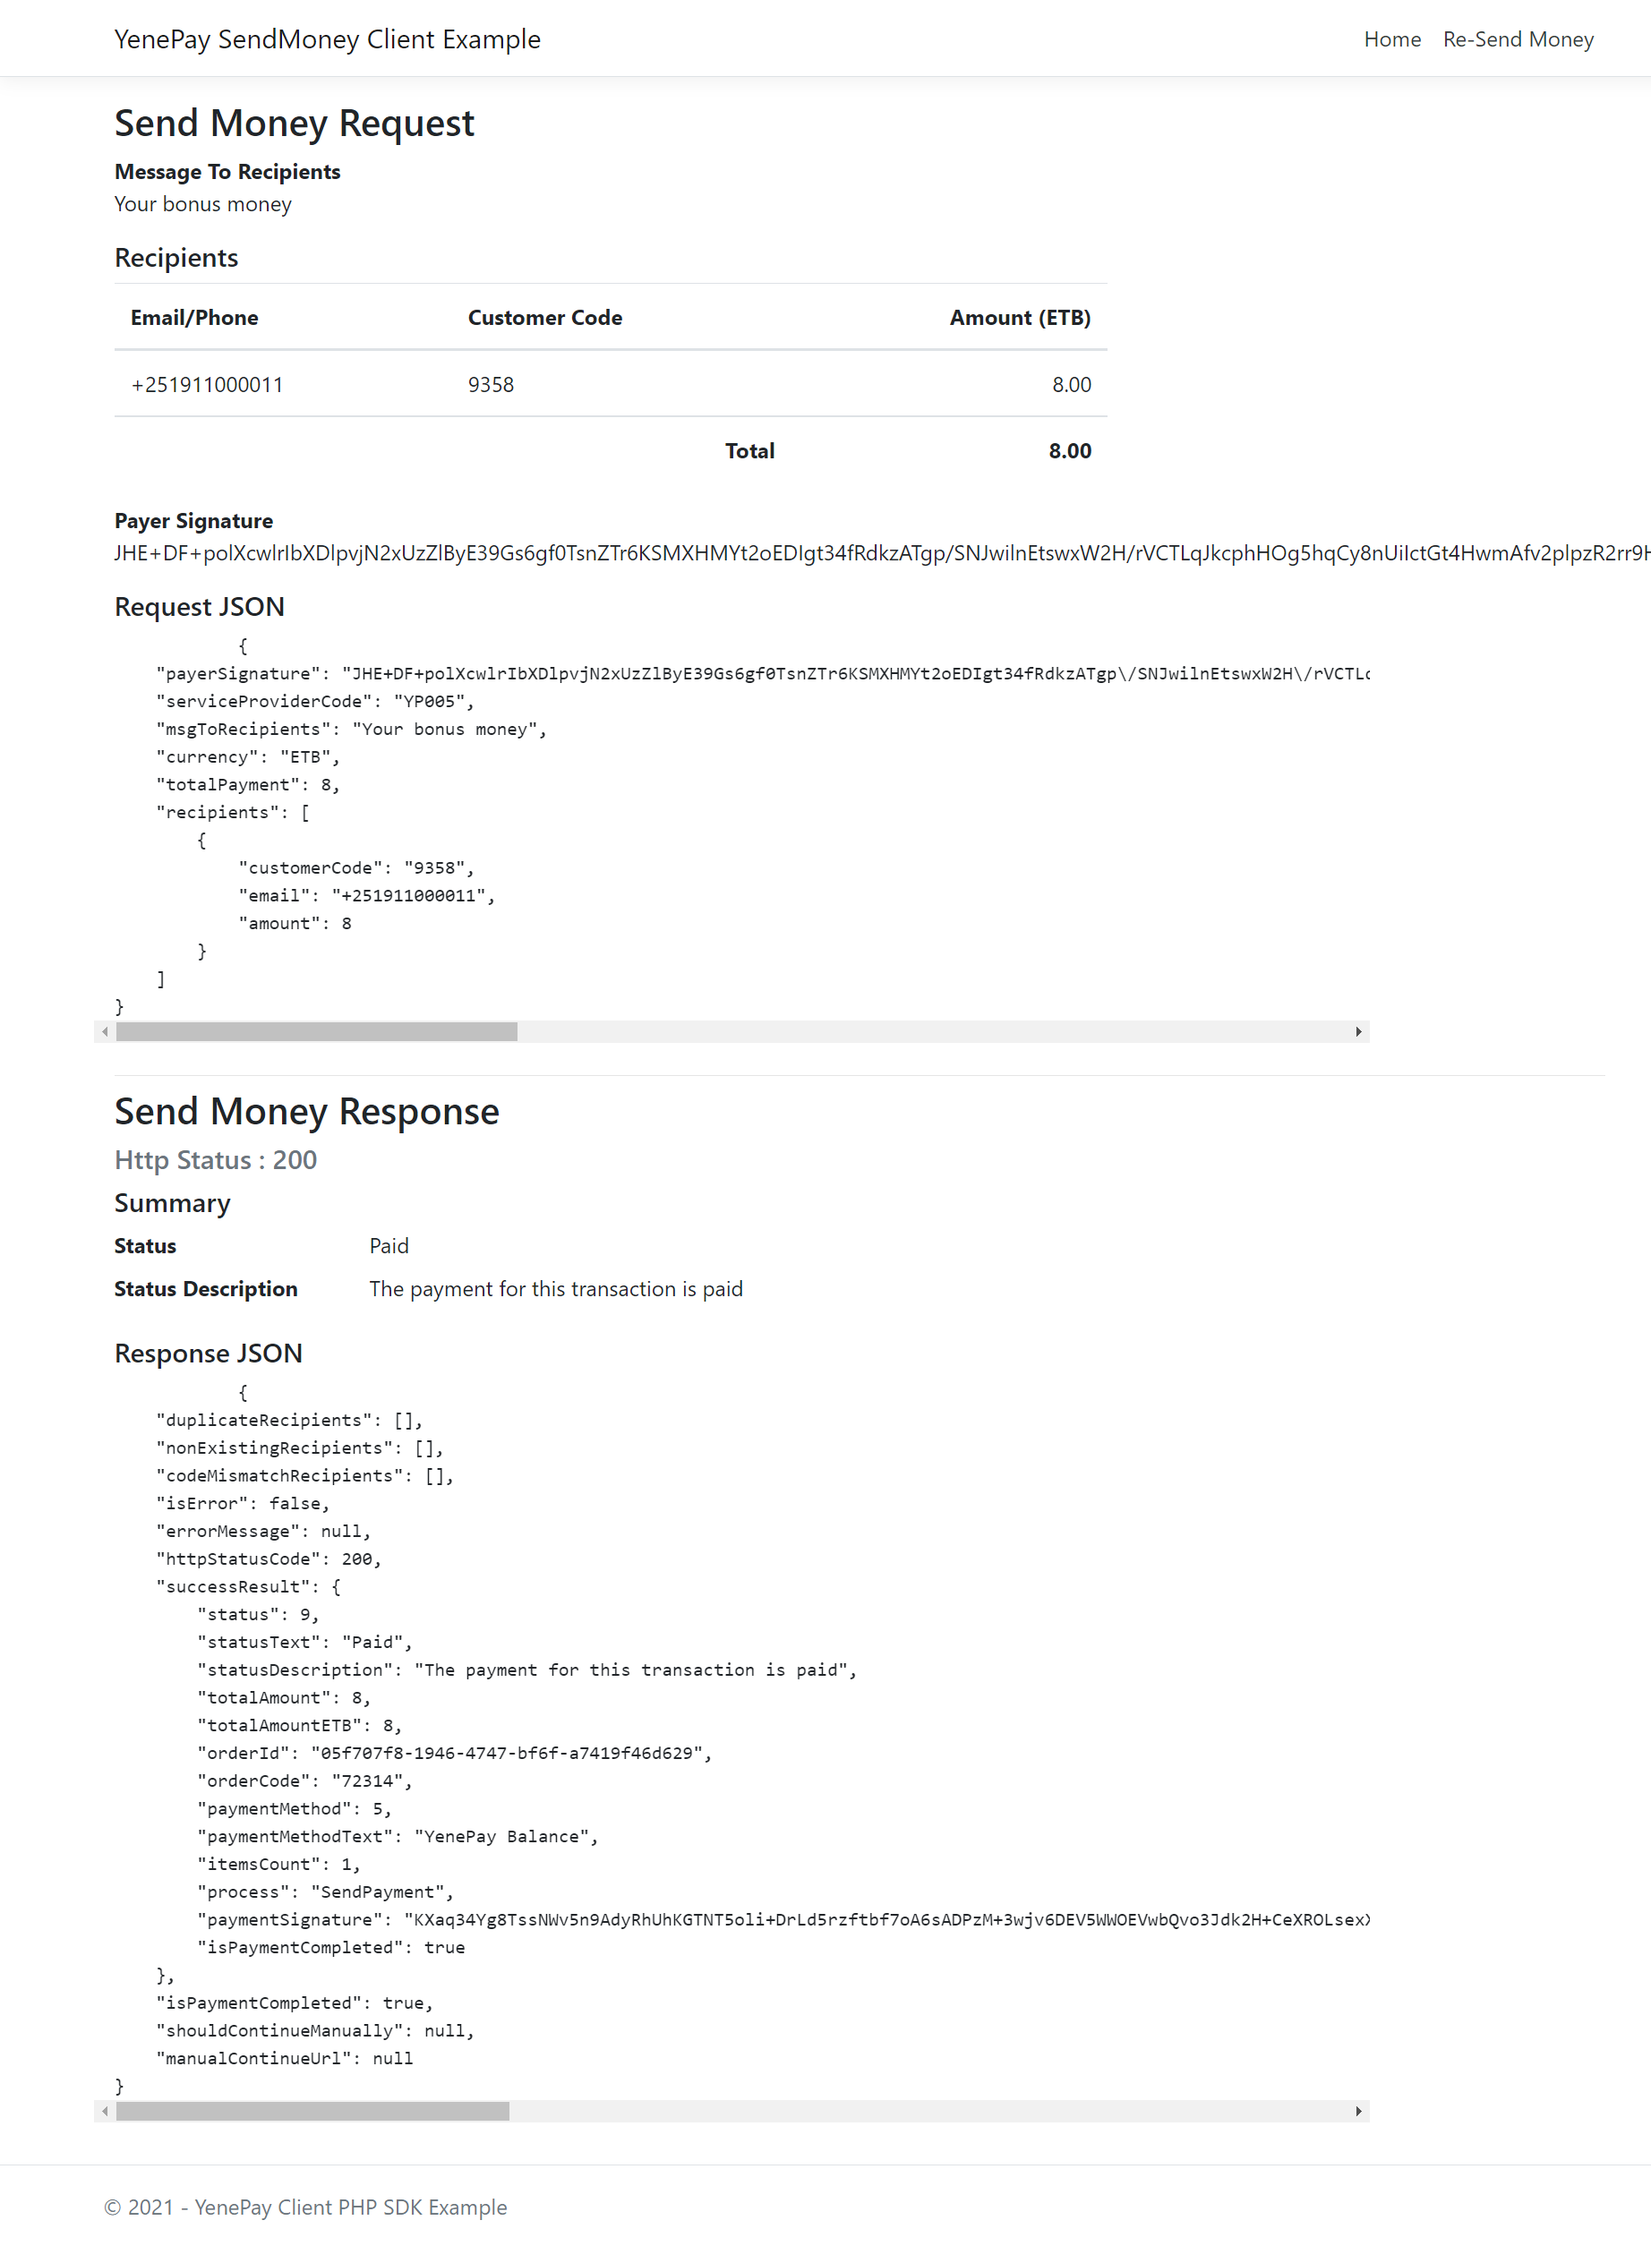
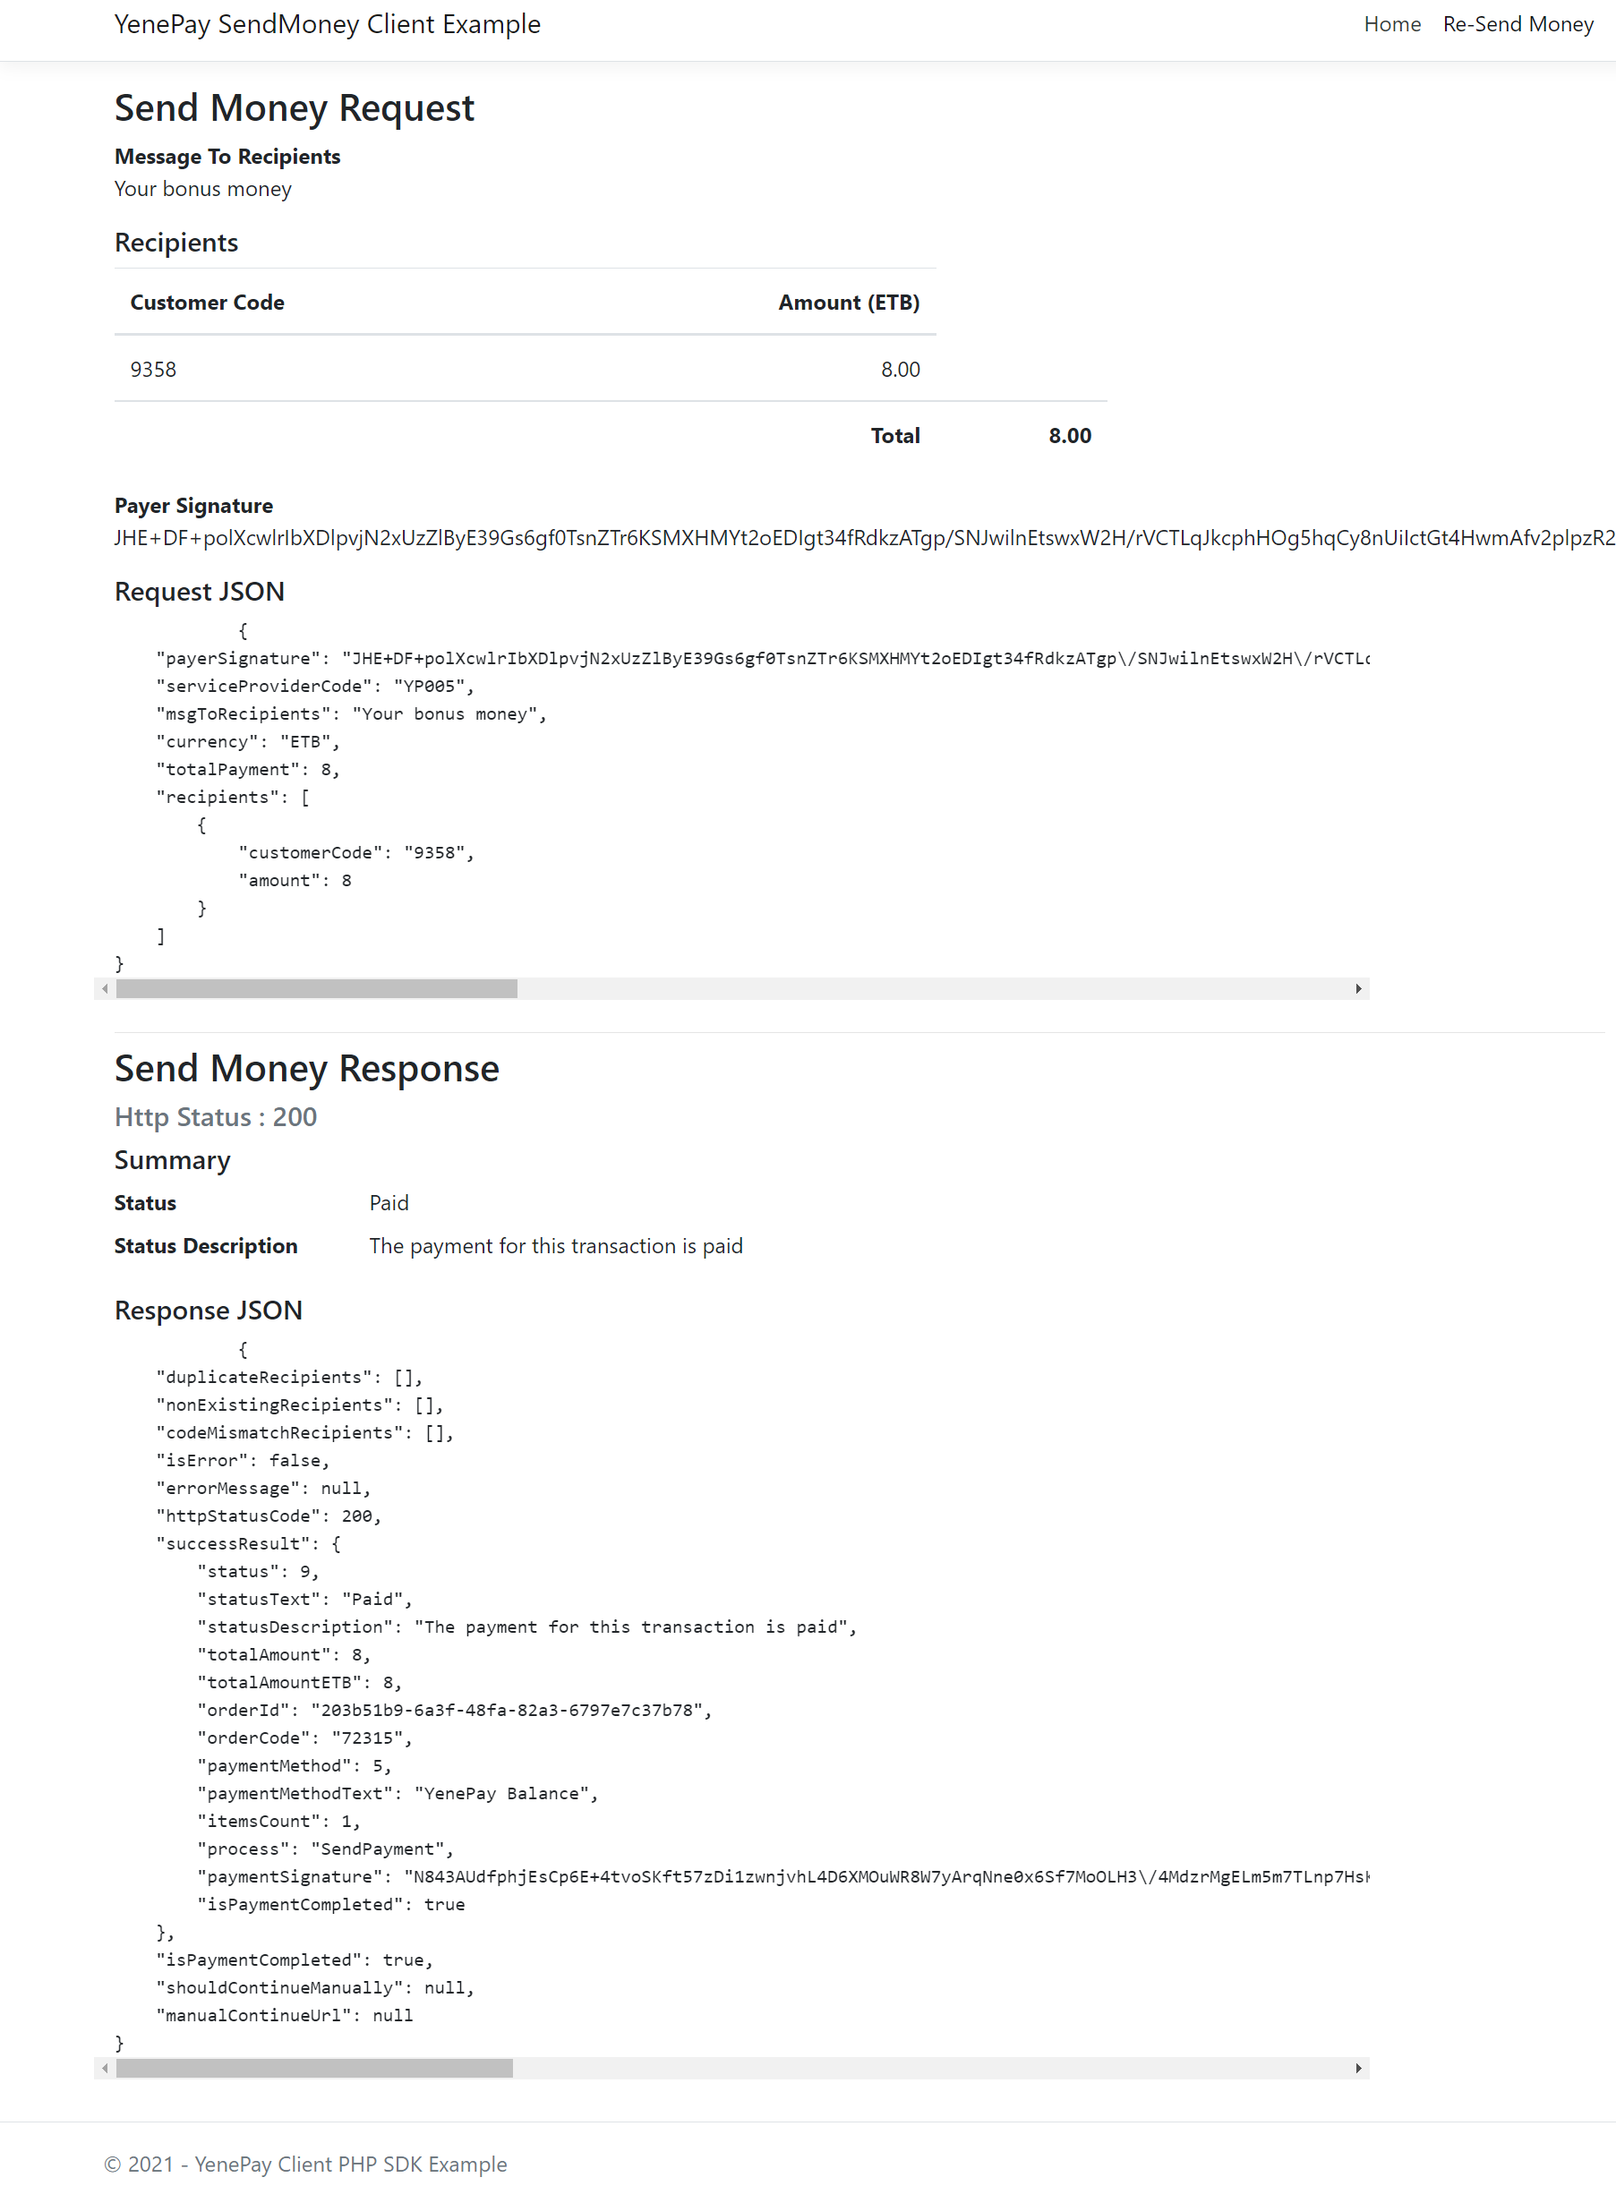
Recipient email/phone is removed and not needed anymore.

diff --git a/src/library/Models/MoneyRecipient.php b/src/library/Models/MoneyRecipient.php
@@ -1,7 +1,6 @@
 <?php
 class MoneyRecipient implements JsonSerializable {
     private $customerCode;
-    private $email;
     private $amount;
 
     function __construct()
@@ -13,10 +12,9 @@ class MoneyRecipient implements JsonSerializable {
         } 
 	}
 
-    function __construct3($customerCode, $email, $amount)
+    function __construct2($customerCode, $amount)
 	{
 		$this->customerCode = $customerCode;
-		$this->email = $email;
 		$this->amount = $amount;
 	}
     /**
@@ -40,29 +38,6 @@ class MoneyRecipient implements JsonSerializable {
     public function getCustomerCode()
     {
         return $this->customerCode;
-    }
-
-    /**
-     * Email or Phone of the item.
-     *
-     * @param string $email
-     *
-     * @return $this
-     */
-    public function setEmail($email)
-    {
-        $this->email = $email;
-        return $this;
-    }
-
-    /**
-     * Email or Phone of the item.
-     *
-     * @return string
-     */
-    public function getEmail()
-    {
-        return $this->email;
     }
 
     /**
@@ -91,7 +66,6 @@ class MoneyRecipient implements JsonSerializable {
     public function jsonSerialize() {
         return [
             'customerCode' => $this->customerCode,
-            'email' => $this->email,
             'amount' => $this->amount
         ];
     }

diff --git a/src/example/send.php b/src/example/send.php
@@ -43,7 +43,6 @@
         <table class="table col-md-8">
             <thead>
                 <tr>
-                    <th>Email/Phone</th>
                     <th>Customer Code</th>
                     <th class="text-right">Amount (ETB)</th>
                 </tr>
@@ -51,7 +50,6 @@
             <tbody>
             <?php foreach($request->getRecipients() as $recipient): ?>
                 <tr>
-                    <td><?= $recipient->getEmail(); ?></td>
                     <td><?= $recipient->getCustomerCode(); ?></td>
                     <td class="text-right"><?= number_format($recipient->getAmount(), 2); ?></td>
                 </tr>

diff --git a/src/library/Models/SendMoneyResponse.php b/src/library/Models/SendMoneyResponse.php
@@ -114,7 +114,7 @@ class SendMoneyResponse implements JsonSerializable {
     private function toRecipientArray($recipients){
         $recArrays = array();
         foreach ($recipients as $rec) {
-            $recArrays[] = new MoneyRecipient($rec->{'customerCode'}, $rec->{'email'}, $rec->{'amount'});
+            $recArrays[] = new MoneyRecipient($rec->{'customerCode'}, $rec->{'amount'});
         }
         return $recArrays;
     }

diff --git a/src/example/send_money.php b/src/example/send_money.php
@@ -21,9 +21,9 @@
     //Create new setting object
     $settings = new YenePaySettings($merchantCode, $token, $signingKey);
 
-    //Create recipients array with customerCode, email/phone, amount
+    //Create recipients array with customerCode, amount
     $recipients = array(
-        new MoneyRecipient('9358', '+251911000011', 8)
+        new MoneyRecipient('9358', 8)
     );
 
     //Create YenePay client with the setting

diff --git a/src/library/YenePayClient.php b/src/library/YenePayClient.php
@@ -10,6 +10,7 @@ require_once (__DIR__ . '/Config/YenePaySettings.php');
 require_once (__DIR__ . '/Models/SendMoneyResponse.php');
 class YenePayClient {
     const API_BASE_URL = "https://endpont.yenepay.com/api/client/send";
+    // const API_BASE_URL = "https://host.docker.internal:44327/api/client/send";
     private $settings;
     
     public function __construct(YenePaySettings $settings) {

diff --git a/README.md b/README.md
@@ -45,9 +45,9 @@ To send money you can use the following php code
     //Create new setting object
     $settings = new YenePaySettings($merchantCode, $token, $signingKey);
 
-    //Create recipients array with customerCode, email/phone, amount
+    //Create recipients array with customerCode, amount
     $recipients = array(
-        new MoneyRecipient('9358', '+251911000011', 8)
+        new MoneyRecipient('9358', 8)
     );
 
     //Create YenePay client with the setting
